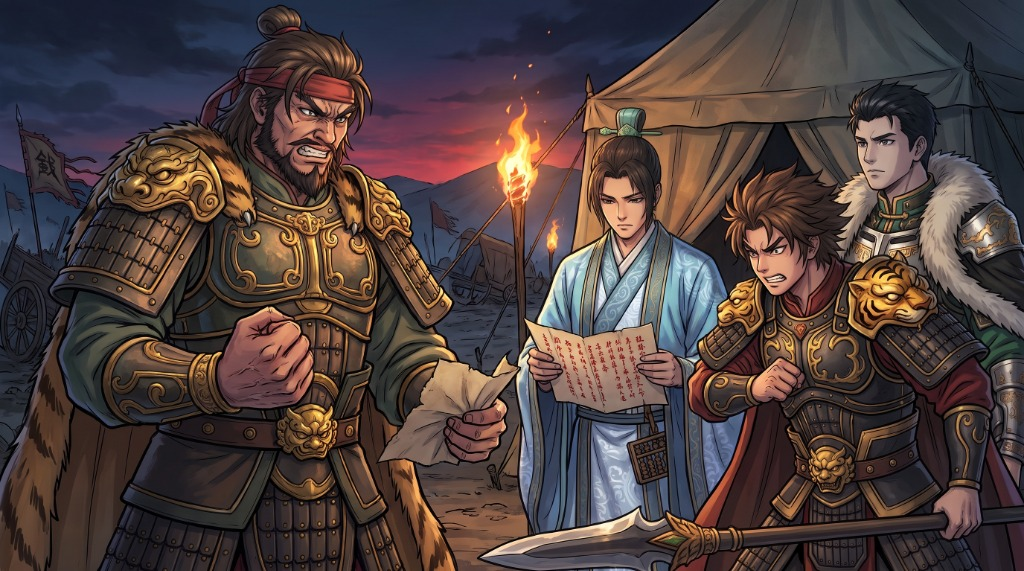
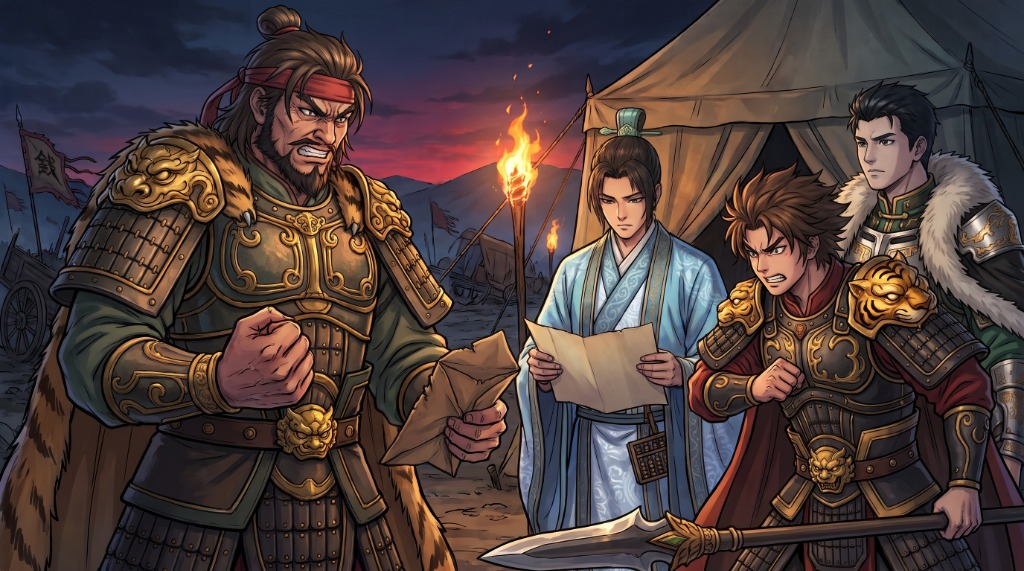
art: 更新剧情 CG c2_mixin 为无文字纯净版，并同步北线独立大地图设计规范

diff --git a/pics/CARD-DESIGN.md b/pics/CARD-DESIGN.md
@@ -467,18 +467,13 @@
 4. 第二章地图底图（M1，现在是程序生成占位）
 5. ~~宝箱图 2 张~~（已到位，开宝箱动画在用）
 6. 第三章立绘（蔡文姬、袁术、纪灵、雷薄、陈兰、桥蕤）；其余招募池武将（见 `ART-NEEDS.md` 最后一节）
-7. **北线第一章 · 冀州风云**（新，剧情已写入 `prologue` quest 的 `era` 北方分支，x ≥ 23）：立绘 `lord_north`（北线主角自己的立绘——束发不是南线的寸头；甲胄是甄宓亡父留下的旧鱼鳞甲，河北风格，不是南线的青金色，`jz_end` 有赠甲一场戏；和南线主公共用卡但各自只认自己的立绘，见 `Kit.portrait_key`）`zhangfuren` `guojia` `zhaoyun` `zhenmi_young` `guotu` `hanfu` `lidamu` `zhangbaiqi` `xuanjizi` `heishan_bing`（第 7 节）；战斗 CG `heishan_wai` `heishan_tan` `heishan_zhai`（第 8 节）；剧情 CG 对标南线砍到 8 张，按「每个角色第一次出场都要有 CG」保留：`jz_wake`✅（张夫人）`jz_ledger`（甄宓）`jz_county`（赵云）`jz_guojia`（郭嘉）`jz_ambush`✅ `jz_rescue`✅（黑山寨三部曲）`jz_boss`、`jz_end`✅（南下）——`jz_crowd`（放粮）`jz_training`（教枪）`jz_fireside`（夜话）三张已经砍掉，不用再画；⚠**地图底图 `prologue.jpg` 需要重画，需求已经重新设计（这次特意按格子的真实 x 坐标比例标了位置，吸取 `luoyang_n` 酸枣大营画偏的教训）**：现有图（`用户提供`，已标记完成）只画了富春/长江一带的江南山水，这一章现在左右两半分别延伸到南线（x0-22）和北线（x23-46，冀州无极→邺城→太行黑山寨，雪景），同一张图被横向拉伸铺满两种完全不同的地理和季节——北线部分的格子背景目前是南方夏景河谷，视觉上对不上。南北两段格子数几乎相等（23 格 / 24 格），所以画面正好对半分；`tools/art_prompts.py` 的 `MAPS["prologue"]` 已经写了新的提示词（因为这张图被标记「已完成」，自动生成的 `ART-PROMPTS.md` 不会把它列出来，得去源码里看），完整提示词如下，重画时直接用：
+7. **北线第一章 · 冀州风云**（新，剧情已写入 `prologue` quest 的 `era` 北方分支，x ≥ 23）：立绘 `lord_north`（北线主角自己的立绘——束发不是南线的寸头；甲胄是甄宓亡父留下的旧鱼鳞甲，河北风格，不是南线的青金色，`jz_end` 有赠甲一场戏；和南线主公共用卡但各自只认自己的立绘，见 `Kit.portrait_key`）`zhangfuren` `guojia` `zhaoyun` `zhenmi_young` `guotu` `hanfu` `lidamu` `zhangbaiqi` `xuanjizi` `heishan_bing`（第 7 节）；战斗 CG `heishan_wai` `heishan_tan` `heishan_zhai`（第 8 节）；剧情 CG 对标南线砍到 8 张，按「每个角色第一次出场都要有 CG」保留：`jz_wake`✅（张夫人）`jz_ledger`（甄宓）`jz_county`（赵云）`jz_guojia`（郭嘉）`jz_ambush`✅ `jz_rescue`✅（黑山寨三部曲）`jz_boss`、`jz_end`✅（南下）——`jz_crowd`（放粮）`jz_training`（教枪）`jz_fireside`（夜话）三张已经砍掉，不用再画；**地图底图：南北各一张，分开的**（一开始想把南北拼成一张横向拉伸的长卷，用户明确说不对——改成两张独立的图，和第二章 `taodong.jpg`/`luoyang_n.jpg` 一个模式）：`prologue.jpg`✅ 南线本来就是独立的富春江南山水，完全不用动；新增 `prologue_north`（⬜缺，走 `map_overrides` 机制——`Quests.map_key(q, save)` 按出生点在 `prologue`/`prologue_north` 两个文件之间切换，见 `SKILL.md`），提示词：
 
 ```
-横向游戏地图插画，手绘中国山水长卷（浅绛 / 青绿山水）：两条互斥的开局路线并排画在同一幅长卷上，正好对半分（玩家一开始二选一，不会同时经历两边，每一半都要能单独读成一段完整的旅程）。
-左半段（画面 0-50%，暖色调江南水乡）：0-8% 是富春渔镇，岸边渔船；8-13% 一片有野猪出没的树林山坡；13-22% 一座竹篱围起、带寨门的江边水贼营寨（第一座贼寨）；22-32% 一处带篝火的征兵营地；32-39% 芦苇荡、一座江心小岛，远处隐约可见第二座更大的水贼营寨；39-48% 安静的江岸，小路渐渐转向远处雾气缭绕的山脉。
-48-52% 是分界：一片浓雾和一道山梁把两段现实隔开。
-右半段（画面 50-100%，清冷河北冬景）：50-58% 飘雪中一座石砌小城（甄家商号）；58-65% 一座更大的带官署大堂的城池（邺城）；65-74% 雪原上的开阔官道，路边远远能看见一个游荡的白发老道的身影（彩蛋，不用画清楚）；74-87% 一道渐渐收窄、往上爬升的太行山峡谷，尽头隐约有战斗的火光；87-100% 画面最右端，山崖上的黑山寨，寨门口炊烟和白雪，山脚下的小路开始折向南方。
+横向游戏地图插画，手绘中国山水长卷（浅绛 / 青绿山水）：winter Hebei, the road from the Zhen family's trading town to the Black Mountain bandit lair, left to right: a small stone-walled trading town under falling snow; a larger walled city with a government hall under a grey winter sky; an open snowy road through farmland with a lone wandering old Taoist glimpsed at the roadside; a narrowing mountain gorge climbing toward a firelit skirmish; at the far right the bandits' snow-wrapped cliffside stronghold on a mountain, smoke rising from its gate, with a path turning back south at its foot。
 构图：超宽全景，3200x1080（可横向滚动），斜向高空俯瞰；上 / 中 / 下三条大致水平的行进带保持干净、不放繁杂细节（地图格子落在上面），薄雾轻绕。
-画风：墨线勾勒，宣纸淡彩——左半段延续现有江南段的淡绿赭石，右半段改用偏冷的青灰与大片留白表现雪色；不要文字、不要 UI、不要近景人物。
+画风：与第一章南线地图（godot/data/art/map/prologue.jpg）一致：墨线勾勒，宣纸上的淡绿与赭石淡彩，整体改用偏冷的青灰与大片留白表现雪色；不要文字、不要 UI、不要近景人物。
 ```
-
-（`map_prompt()` 通用模板那句「画风与第一章地图一致」对这张图本身是循环引用，上面这版已经手动改写成直接描述画风，不要照抄模板原文）
 8. **北线第二章 · 洛阳烟云**（新，quest `luoyang_n`，紧接 `taodong` 之后，`--demo=ln2` 截图走查）：立绘 `caohong` `lvlingqi`✅（曹洪待画，吕玲绮已到位）；战斗 CG `ln_lvlingqi`（新，黄河古道·吕玲绮）`ln_langqi`（新，劫营·并州狼骑）——其余战斗全复用南线已到位的图（`xiliang_youqi` `xiliang_scout` `guanjun` `dagu` `feixiong` `hulao_ch1`，见各 scenario 的 `art` 字段）；剧情 CG `ln_camp`（马车正骨认半个闺女）`ln_handhold`（车帘后牵手）；三英战吕布直接复用南线 `c2_sanying`；**地图底图 `luoyang_n`✅**（已交付：雪山栈道上吕玲绮坠马→牛车队渡河→红旗酸枣大营→汴水残营→虎牢关城墙烽火→右上角洛阳方向的火光，六幕的地理顺序都对得上；⚠小瑕疵：红旗酸枣大营画在整张图约 50-60% 的位置，视觉上偏右，实际对应的 `ln_banner`/`ln_feast`/`ln_caocao` 只排在全程第 8-11 格（约 26-32%）——顺序没错，就是玩家真正走到「见诸侯、借粮」时背景还没卷到大营那块，打完汴水才看到。owner 确认过先放着不用改）；优先级由 owner 决定
 
 已到位（画师 / Gemini 图）：第一章底图；主公、孙策、周瑜（含赤壁版）、孙坚、吴国太、左慈、华佗、于吉、胡玉、唐周、何仪、胭脂虎、董白、祖茂、程普、华雄、韩当、黄盖、李傕、郭汜、李儒、张飞、唐姬；飞熊军、西凉铁骑；江东水贼、南下黄巾、于吉信徒、白额虎、野猪、山贼喽啰、官军刀兵（盾牌待重画）、丹阳兵、长沙刀兵、黄巾女医、宫女、西凉女亲兵；第一章剧情 CG 8 张全齐 + `i1_sewing`；第一章战斗 CG 12 张全齐；宝箱图 2 张。

diff --git a/.claude/skills/sanguo-dev/SKILL.md b/.claude/skills/sanguo-dev/SKILL.md
@@ -205,7 +205,13 @@ Adding a portrait, checklist:
   Same idea for the displayed chapter name:
   `title_overrides` (`[{requires, unless, title}]`, `Quests.title(q, save)`) swaps `q["title"]` for a route that shouldn't keep
   showing the other route's chapter name on the map header/recap/toast — `prologue` has one so the north route shows "第一章 ·
-  冀州风云" instead of the south-only "第一章 · 富春" it used to show throughout.
+  冀州风云" instead of the south-only "第一章 · 富春" it used to show throughout. And for the map background itself:
+  `map_overrides` (`[{requires, unless, map}]`, `Quests.map_key(q, save)`, read by `map_screen.gd`'s `res://data/art/map/<key>.jpg`
+  load instead of a bare `q["id"]`) swaps in a whole separate image file — `prologue` south keeps its own `prologue.jpg` untouched,
+  the north override points at `prologue_north` (a map that doesn't exist yet, so north currently shows no background — that's
+  `ResourceLoader.exists()` failing gracefully, not a bug). Tried a single stretched south+north scroll first; don't — the user
+  wants two separate map images for a shared quest, one per route, matching how chapter 2's `taodong.jpg`/`luoyang_n.jpg` already
+  are two separate files (they're separate *quests* so that was free; `prologue`'s two routes are one quest, hence this field).
 - **Event** (`story.json` events, for ？ squares; a square with `event` is fixed): `title, glyph, color, text,
   portraits, options [{label, effects, win}]` — effects `say, damage, heal, rest, poison (−⅓ HP), card, soldier,
   offer {from | generals + rates | soldiers}, upgrade (true = pick, "random"), refresh, relic, danger (险, run),
